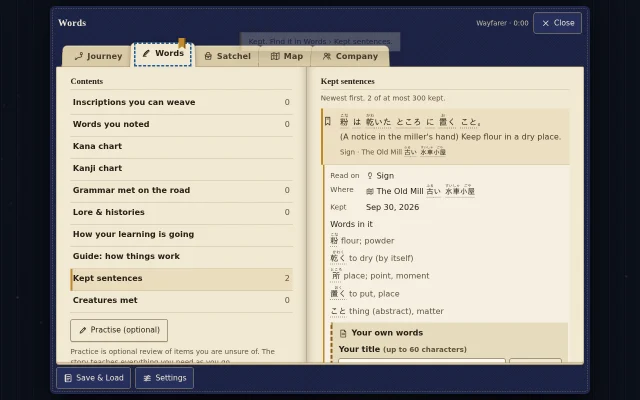
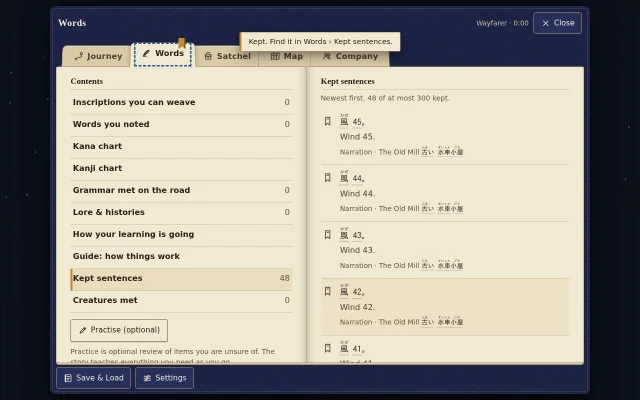
Words: final captures and the test record
Claude-Session: https://claude.ai/code/session_015RcFBxQ5xp952n4kFB8UbL

Changed region(s): [[0.5, 0.24, 0.9062, 0.93], [0.375, 0.06, 0.625, 0.15], [0.4375, 0.69, 0.4688, 0.72]]

diff --git a/docs/addendum/words.md b/docs/addendum/words.md
@@ -211,7 +211,35 @@ foundation `aa825c3` on `claude/stoic-sagan-n3jvgk`.
 - Browser captures: `tests/e2e/out/words/`. The curated WebP set is in
   `docs/screenshots/words/` (README there). I looked at every capture
   myself; nobody else has.
-- Test logs: the commands and results are in the final report.
+- Tests run on the final build (headless Chromium; other workers' tests
+  were running on the same machine, at a load average of about 7 to 65):
+  - `node tools/validate.mjs`: no errors.
+  - `node tests/run-unit.mjs`: 4733 passed and 2 failed at load 30–50.
+    Both failures were timing limits: `kanji_chart` "a search takes well
+    under 25 ms" and `recog-accuracy` "p95 recognize() < 60 ms". Rerun at
+    load 7, both pass (53/53 and 64/64). `bookmarks`: 65/65. `choice_order`
+    passes. `recog-coverage` passes, with `75_kanjiread.js` unchanged.
+  - `node tests/e2e/bookmarks.mjs`: 6/6.
+  - Passed on the final build:
+    - `world_fixes`, `combat_ui`, `play_ui`, `folio`, `ui` and `systems`;
+    - `battle_group`, `companion_turn` and `learning_ui` (14/14);
+    - `quest_guide`, `long_quests --fixtures-only` and `story_ch1 F mio`;
+    - `create`, `settings` and `encounters`;
+    - `departures`;
+    - `battle_anim` (16/16).
+  - At a load average of 30–65, some of those failed, all on timing:
+    - `departures`: walkers not started within the test's 200 ms. At load
+      19 it passed on the base build, then on mine right after.
+    - `battle_anim`: the frame-cost limit and beat order, and "rapid
+      input" (the base build failed it 2 of 4 times at the same load,
+      mine 1 of 3).
+    - `learning_ui`: a 180 s per-test timeout.
+    - `create`: a visual-viewport resize.
+    - `quest_guide`: a marker not yet drawn.
+    Every one of them passed on a later run.
+  - An earlier full regression run on this code, before the last
+    page-only changes (paging, links, labels), passed every suite above
+    except one `quest_guide` flake, which passed when rerun.
 
 ## Measured
 
